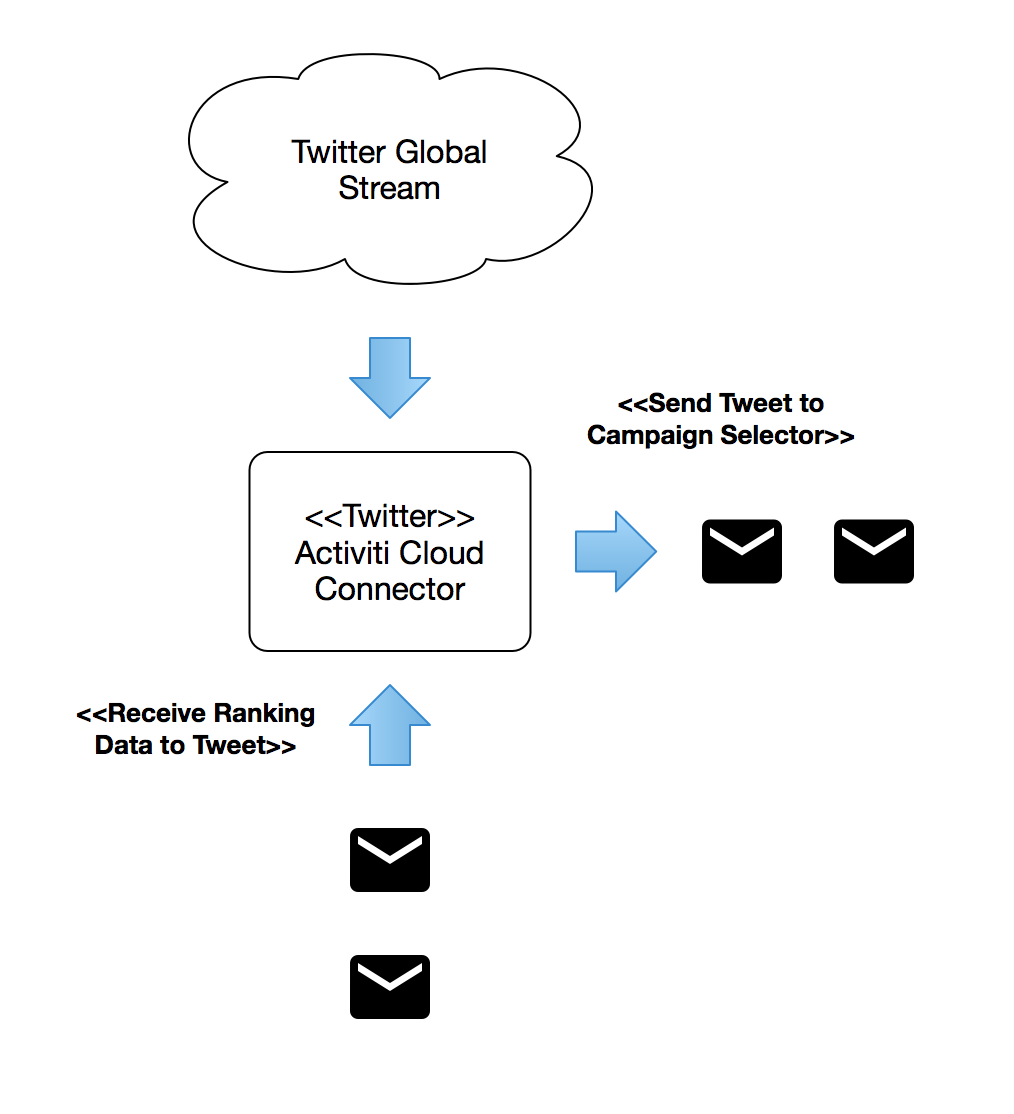
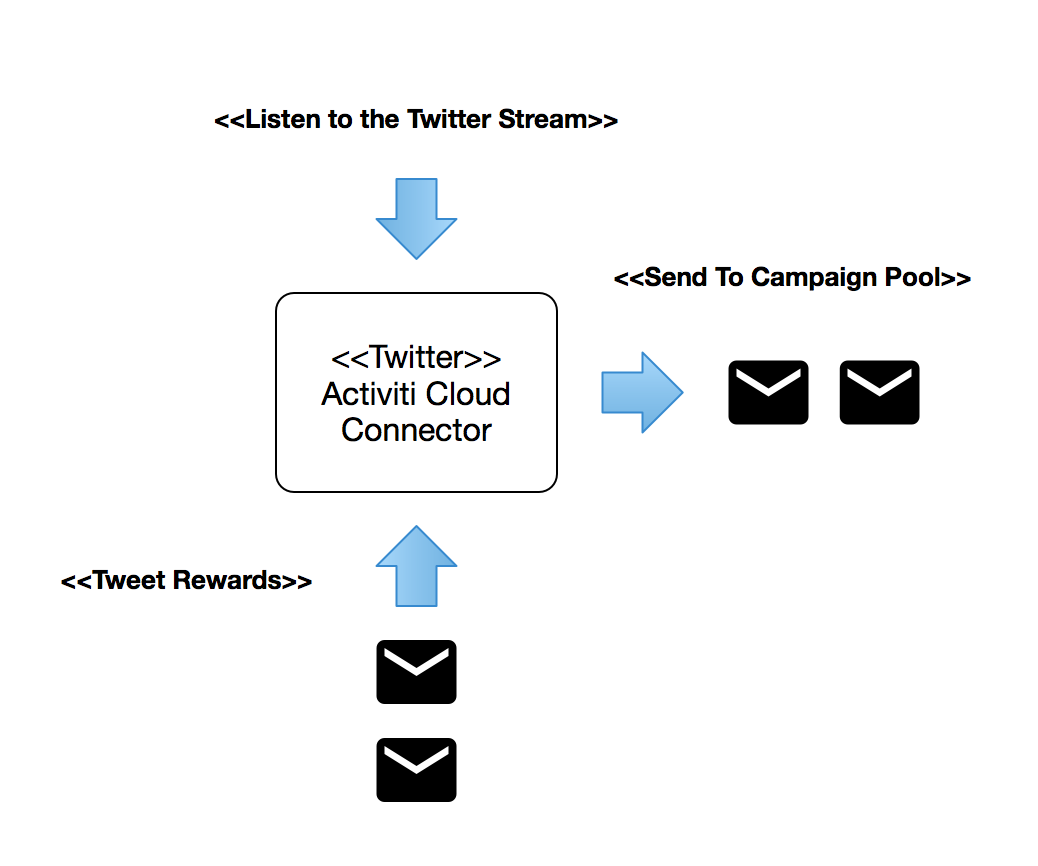
improving cloud connectors scenario

diff --git a/components/activiti-cloud-app/CloudConnectors.md b/components/activiti-cloud-app/CloudConnectors.md
@@ -1,12 +1,27 @@
 # Cloud Connectors
 
-## Scenario
+Activiti Cloud Connectors provide an scalable way to perform bi-directional system to system interactions. It enable business processes to interact with external systems in a safe way without compromising the process runtime.
 
-You can find this example in our [Activiti Cloud Examples Repository](http://github.com/activiti/activiti-cloud-examples/twitter-process-example)
+**No new frameworks, protocols, or any other crazy stuff was developed to bring Activiti Cloud Connectors to life**
+
+Activiti Cloud Connectors provide:
+- A quick way to map and perform a system to system interaction.
+- A flexible configuration to support high demand scenarios using well known technology stacks
+- A way to version and maintain multiple connectors up and running in the same infrastructure
+- A default way to handle your BPMN Service Tasks
+- An unified way to trigger actions in our Process Runtimes
+- (Future) Inter Process Communications: signal/catch/send & receive messages
+
+
+In order to illustrate the beauty of Activiti Cloud Connectors we will use the following scenario which demonstrate how these connectors can be used in fully containerized environments.
+
+## Scenario (The WHAT)
+
+You can find this example in our [Activiti Cloud Examples Repository](http://github.com/activiti/activiti-cloud-examples/trending-topic-campaigns)
 
 Let's use the following Scenario to demonstrate all these concepts in action.
 
-**Imagine that we are marketing company that looks into the Twitter stream to give rewards/prizes to the most active users on different trending topics. The company cannot predict which topics will be trending, they need to react quickly when they see a topic that can be used for marketing purposes. These marketing campaigns (based on trending topics) needs to be developed and deployed in minutes not hours. Each campaign will have a different set of rules on how to process Tweets and how the most active users will be rewarded for their participation. Because this is a global Marketing firm, we can assume that campaigns will be associated with just one language (just for the sake of simplicity).**
+**Imagine that we are marketing company that looks into the Twitter stream to give rewards to the most active users on different trending topics. The company cannot predict which topics will be trending, they need to react quickly when they see a topic that can be used for marketing purposes. These marketing campaigns (based on trending topics) needs to be developed and deployed in minutes not hours. Each campaign will have a different set of rules on how to process Tweets and how the most active users will be rewarded for their participation. Because this is a global Marketing firm, we can assume that campaigns will be associated with just one language.**
 
 In order to implement this scenario we can divide the requirements into two different big conceptual areas:
 - **What** needs to be done: Filter tweets -> Process tweets to extract information -> Rank Users that created the tweets regarding a certain topic -> Reward top X users after a period of time.
@@ -17,17 +32,40 @@ The **How** is what we developers & system integrators care about. We don't want
 
 As part of the **How**, it is important to understand that all campaigns will share a common set of building blocks which we call infrastructure. These are message brokers, security mechanisms, etc. that will be share by all campaigns. For us to be fast and develop and deploy new campaigns quickly a running infrastructure must be in place so multiple campaigns can share the common bits. At the same time, it is important to notice that even if we share common infrastructural services, we should be able to scale each campaign independently.
 
+Our Scenario will look like this:
 
-## Implementation
+![](../../../assets/examples/scenario.png)
+
+The twitter stream will be consumed by our Activiti Cloud Twitter Connector. The connector here will be in charge of picking up each tweet and dispatch it as a message (throughout a message broker) to the Campaigns Pool. Campaigns interested in the tweet will be able to pick it up and process it accordingly. As mentioned before, campaigns are associated with just one language, but we can easily change this to be based on location or any other value provided by twitter API.
+
+The Campaign Pool is dynamic by nature, new Campaigns can be added or removed at any time based on the needs of the company. Campaigns define how to deal with each trending topic that the company want to track and give rewards to their users.
+
+![](../../../assets/examples/campaign.png)
+
+Each campaign will define 2 main things:
+- What is the campaign about, and how to process, analyze and rank each user involved in the trending topic at hand.
+- How and when rewards should be delivered. This includes defining the number of top X users entitled to recieve rewards.
+
+
+## Implementation (The HOW)
 
 **Note Before starting:  it is important to understand that this example is complex because real life is complex. We tried to avoid too many hacks and shortcuts to make sure that we leverage the infrastructure as real applications (your implementations) will do. If you get overwhelmed with the amount of services and moving pieces you are probably not ready for uServices & Kubernetes just yet :). As part of the infrastructure we provide monitoring and tracing tools which will enable you to understand what is going on and how all these services are interacting.**
 
-First of all we need to tap into the Twitter Stream to consume tweets. For doing that we will use [Twitter4J] and because we are consuming data from an external system we will create an Activiti Cloud Connector to deal with all the Twitter interactions.
+This section explains in detail the components required to create and run a new campaign.
+The example is composed by 4 Maven projects that can be found here: [Trending Topic Marketing Campaigns Example](http://github.com/activiti/activiti-cloud-examples/trending-topic-campaigns)
+
+- **activiti-cloud-connectors-3rd-party**: this Activiti Cloud Connector deals with how our business processes are going to interact with external services that we don't manage
+- **activiti-cloud-connectors-ranking**: this Activiti Cloud connector deals with how our processes are going to interact with the Ranking Service to be able to reward users for the different campaigns.
+- **activiti-cloud-connectors-twitter**: this Activiti Cloud Connector deals with all the tasks related to Twitter which includes: listening the twitter stream & enabling our application to tweet to users that receive rewards.
+- **english-campaign-rb**: this is an example Campaign to deal with English Tweets and rewards, we encourage you to create new campaigns.
+
 
 ### Twitter Activiti Cloud Connector
-Our Twitter Activiti Cloud Connector will be in charge of tapping into the Twitter Stream, route tweets based on their language and Tweet the prizes for the winners of each campaign.
+First of all we need to tap into the Twitter Stream to consume tweets. For doing that we will use [Twitter4J]() and because we are consuming data from an external system we will create an Activiti Cloud Connector to deal with all the Twitter interactions.
 
- ![](../../../assets/TwitterCloudConnector.png)
+Our Twitter Activiti Cloud Connector will be in charge of tapping into the Twitter Stream, route tweets based on their language and Tweet the rewards for the winners of each campaign.
+
+ ![](../../../assets/examples/TwitterCloudConnector.png)
 
  In order to create this project we just need to create a simple Spring Boot 2 application and add our Activiti Cloud Connector Starter dependency to it. We also need the Twitter4J dependency and we are ready to go.
 
@@ -39,23 +77,47 @@ Our Twitter Activiti Cloud Connector will be in charge of tapping into the Twitt
 ```
 
 If you look at the Twitter Activiti Cloud Connector you will notice the following:
-- We have a routing mechanism that based on each Tweet Language a process definition will be picked up to start a new Process Instance which will process the tweet.
-- This routing can be changed during Runtime by accessing to the Connector's exposed Endpoints. In real life scenarios you might have a completely separated Service that deals with this routing logic, the connector can remain as a simple integration point.
-- Even if we have a process definition reference, we don't know exactly where that Process Definition is hosted, meaning that the infrastructure will be in charge of sorting that out for us. This is one of the main aspects that contribute to the scalability of Activiti Cloud.
+- We setup the Twitter4J Stream Listener to listen to all the global twitter Stream
+- The LangAwareTwitterStatusListener is in charge of getting the language of the Tweet and adding it to the Header of the message. We use this as a filter for campaigns to quickly drop messages that are not matching with the campaign language.
+- One Message Per Tweet is sent
 
-### Language/Campaigns Manager/Router Runtime Bundle
+As you can imagine this connector will end up containerized into a Docker Image that we can deploy and scale independently. We generate this docker image using the Fabric8 Docker Maven Plugin.
 
-The Language Specific Process definition will look like:
-- Select Campaigns
-- Process Tweets for each campaign (Start Process Instance that represent the campaign)
-  - If the tweet doesn't apply for the campaign end process instance
-- Rank Twitter User for the selected campaign
+### Campaigns
+Campaigns are domain specific uServices. Different marketing departments might need to create completely different campaigns based on their requirements.
+As stated before in the scenario section, campaigns are responsible for:
+- Defining how to process each tweet for a given trending topic
+- Defining how to reward users which participated the most in the campaign
 
-Each language can include a variation of the process definition to deal with campaigns and tweets in different ways. For the sake of simplicity we will use this process definition to deal with multiple languages.
 
-Notice that we have a lot of business logic in here, and for that reason we will create our first Runtime Bundle which will contain the previously described business process.
+### Campaign Definition
+We create a simple campaign composed by 4 main steps:
+- Process the Tweet information
+- Does this tweet Match the current campaign?
+  - No Discard
+  - Yes Continue
+- Analyze the tweet
+- Rank the Tweet Author
 
-In order to do that we create another simple Spring Boot 2 application and we add our Activiti Cloud Runtime Bundle Starter as a dependency:
+This is represented by the following business process:
+
+![](../../../assets/examples/english-campaing-process-def.png)
+
+Each campaign can include a variation of the process definition to deal with tweets in different ways. For the sake of simplicity we will use this process definition to deal with multiple campaigns. But you are free to change this definition and experiment with different requirements.
+
+### Reward Definition
+
+We defined a simple rewarding process as well. It is composed of 3 main steps:
+- Get the Top X Ranked users for the given Campaign.
+- Generate a reward per user.
+- Tweet the reward to each user.
+
+![](../../../assets/examples/english-campaing-reward-process-def.png)
+
+
+### Campaign Runtime Bundle
+
+In order to be able to execute these Business Process Definitions we create a new Activiti Runtime Bundle by creating a Spring Boot 2 application and adding our Activiti Cloud Runtime Bundle Starter as a dependency:
 ```
 <dependency>
   <groupId>org.activiti.cloud</groupId>
@@ -63,16 +125,19 @@ In order to do that we create another simple Spring Boot 2 application and we ad
 </dependency>
 ```
 
-We also need to include our Business Process definition under: src/main/resources/processes/
+Then we copy our Business Process definitions under:
+``src/main/resources/processes/``
 
-This project is called: "Campaign Manager/Router Runtime Bundle" and you can find the sources [here]( ).
+The campaign runtime bundle project can be found here: [english-campaign-rb](https://github.com/Activiti/activiti-cloud-examples/tree/develop/trending-topic-campaigns/english-campaign-rb)
 
-The next step, once the correct process instance for the language is started to process the tweet is to run through the campaigns service. This service will be in charge of looking into all the available campaigns and forward the tweet to all the campaigns that might apply. Remember, campaigns are registered by language and they are dynamic, the can come and go without notifying this process.
+Both the Campaign and Reward processes will interact with external services to perform their tasks. This interaction will be handled by our Activiti Cloud Connectors. Which serves as an intermediate layer between the Process Runtime and the external service.
 
-[IMAGE SHOWING PROCESS INTERACTING WITH CAMPAIGN SERVICE]
+![](../../../assets/examples/campaign-cloud-connectors-services.png)
 
-The connector will query the Campaign service to see which campaigns are currently enable for the selected language and request to start a new Process Instance for each selected campaign.
+This intermediate layer of Cloud Connectors enable us to scale the process runtime independently from how they interact with other service. It also serves as a great place to add some technical and business details about each of these interactions. We need to consider that in real life interactions we might have SLAs and policies to limit or control these external services interactions. Activiti Cloud Connectors helps you to add these complex controls in a way that they are completely decoupled from your processes executions.
 
-### Campaign Runtime Bundle
-Each campaign will be handled by a different runtime bundle, allowing us to scale them independently when needed. The campaign itself is the representation of how the business wants to deal with each tweet for different marketing campaigns. For this reason, one or more business processes will be included in this runtime bundle to describe which external services should be used. As part of the campaign, different services with different SLA & pricing schemes will be consumed
- 
+As you can imagine this Runtime Bundle will end up containerized into a Docker Image that we can deploy and scale independently. We generate this docker image using the Fabric8 Docker Maven Plugin.
+
+## 3rd Party Service Connectors
+
+## Ranking Service Connector
